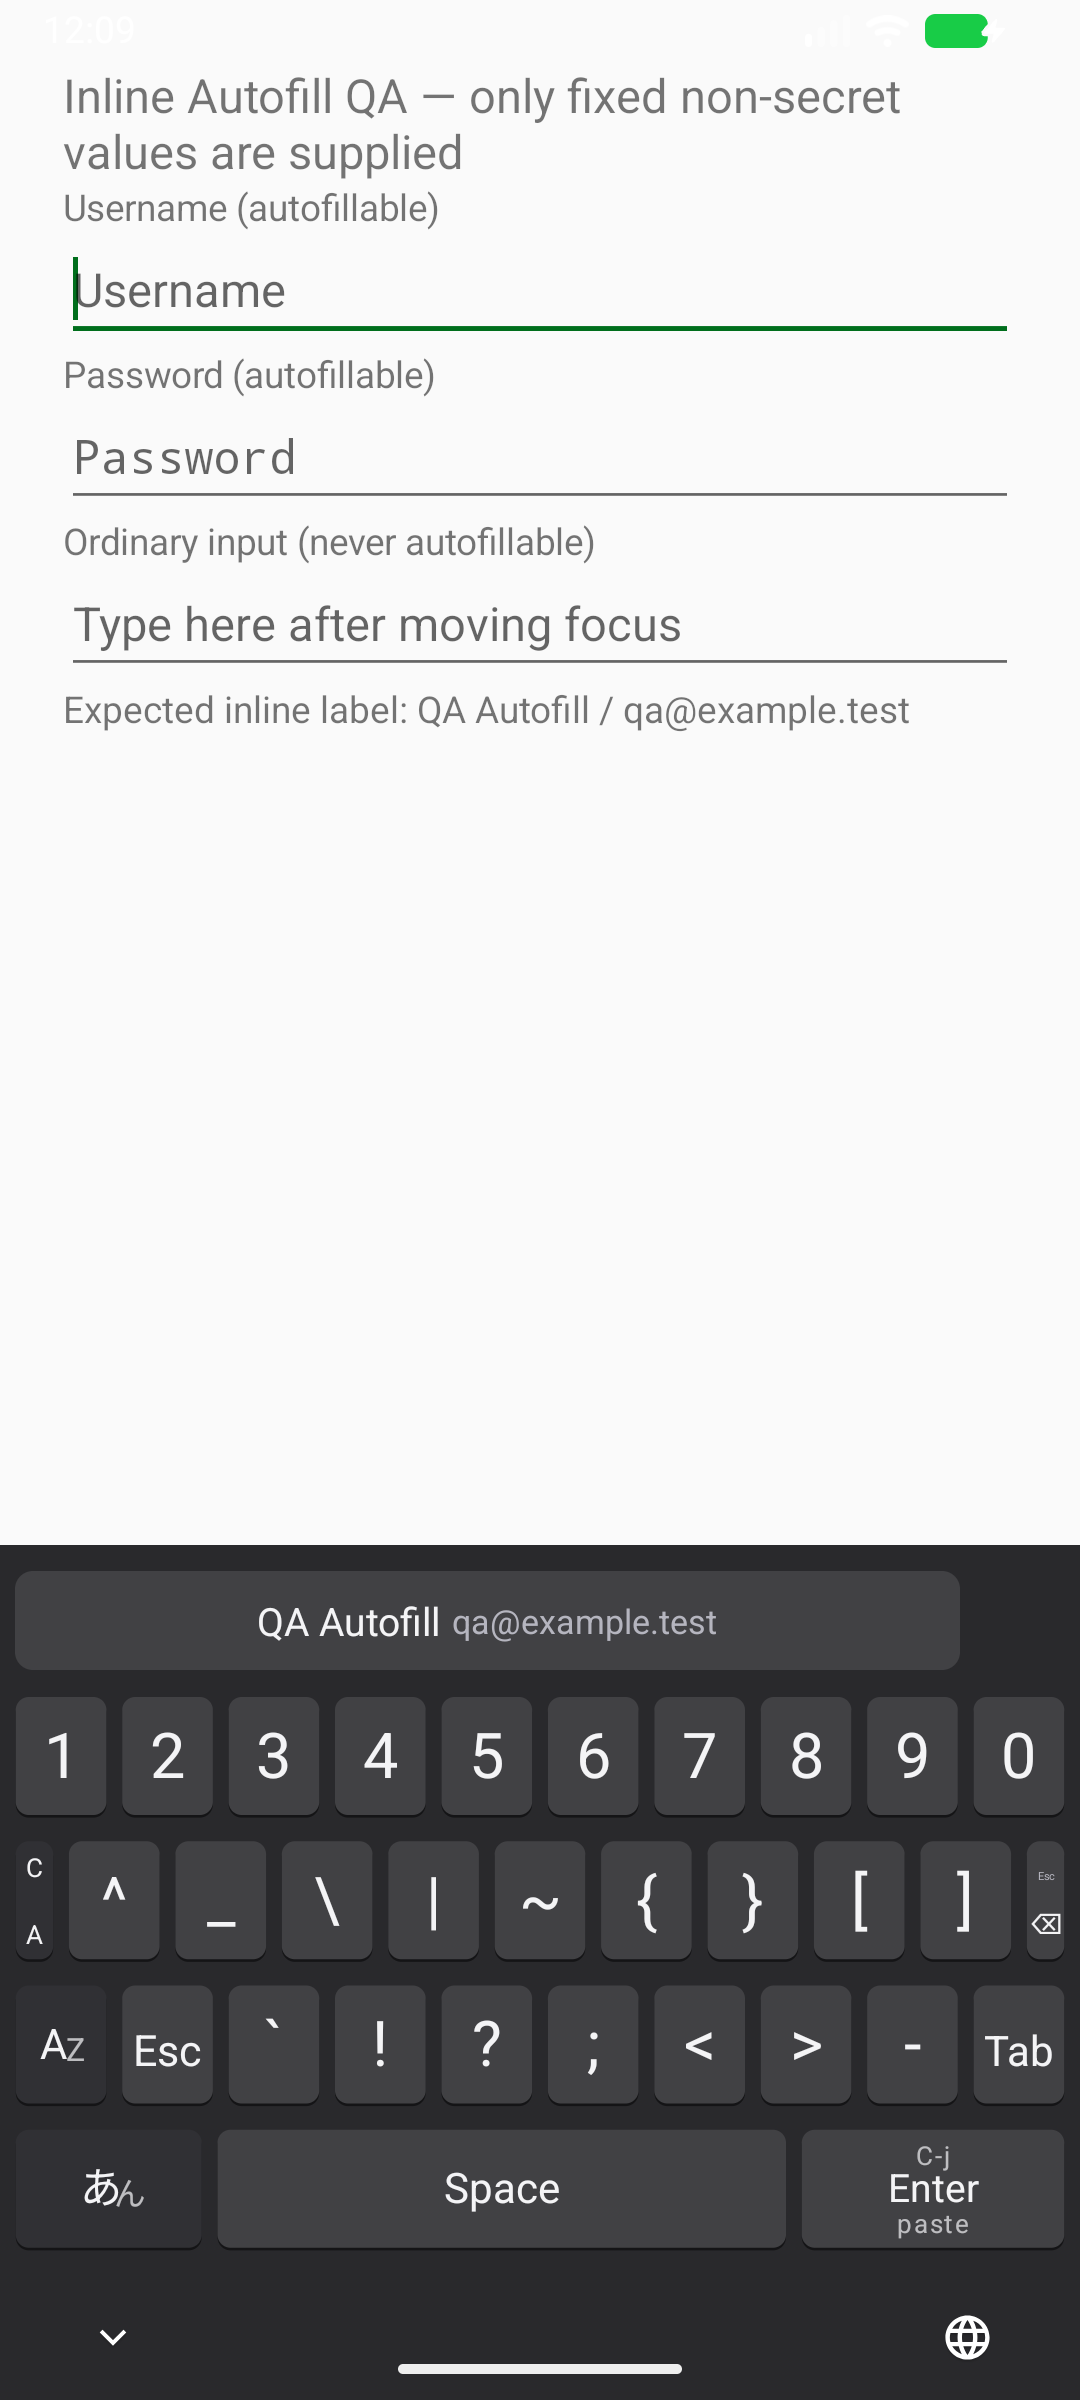
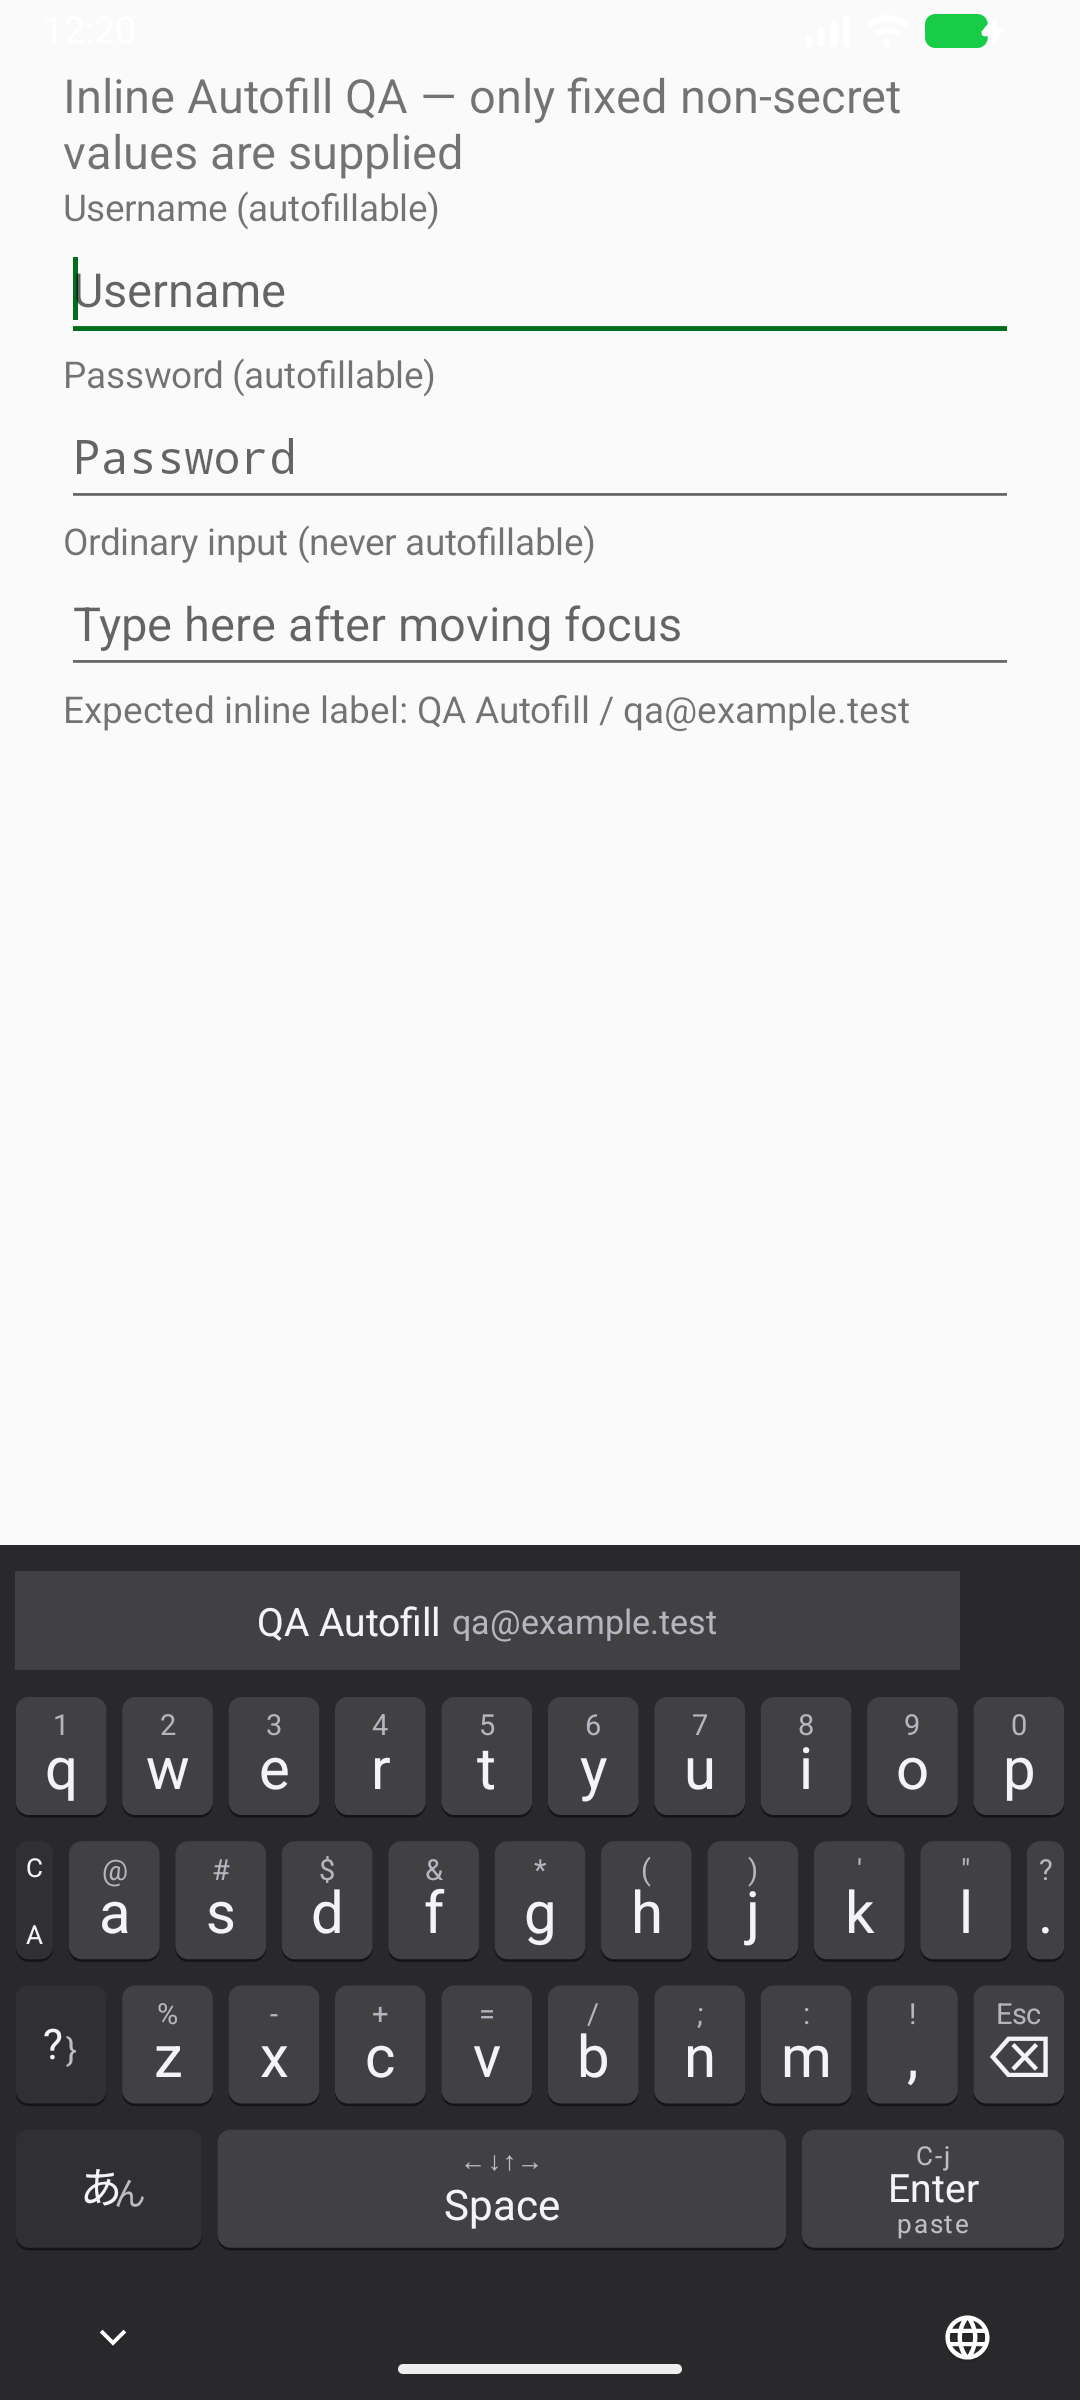
Record inline theme verification and review APK

diff --git a/progress.md b/progress.md
@@ -474,3 +474,5 @@
 [2026/10/27 11:58] 実Bitwarden試験で候補が欄下ポップアップに出てキーボードが閉じ、再タップ後もIME内候補は出ないと判明した。Bitwarden側の候補表示設定を確認中で、インライン動作は未確認のまま。
 [2026/10/27 12:05] Bitwardenをインライン表示へ変更後、実機のmd-kbd候補欄にBitwarden候補2件が出ることを利用者の画像で確認した。候補タップ後にIDとパスワードが埋まるかは未確認。
 [2026/10/27 12:10] インライン候補の白背景はAndroidX既定styleによるものと特定し、通常候補と同じ明暗別の色・角丸を指定した。QA自動入力サービスのエミュレータ画面でダーク411dp相当とライト840dp相当を確認した。実Bitwardenでの新配色と候補タップ後の入力は未確認。
+[2026/10/27 12:24] Bitwarden候補の白背景はダークIMEと不一致と確認。AndroidX v1の候補styleへ既存の明暗別候補色と文字色を指定し、固定値QA自動入力サービスのエミュレータ画面でダークは濃灰・ライトは白を確認した。最終SHA 8313d89のfast-checksと接続試験は通過。並列一式では既存の絵文字Robolectric試験が断続失敗したが、単独の全単体試験・lint・APKビルドは通過。実Bitwardenの新配色と候補選択後の入力は未確認。
+[2026/10/27 12:29] 暗色候補の修正版レビューAPKを24時間公開のFlyerプレビューへ入れ替えた。新APKは38,965,643バイト、SHA-256は4611213617df838878e9e00440563c49217267cecdb295d6b6acb9f23f399d4aで、分割ファイル2件のFlyer側hashと元ファイルのローカルhashを照合した。旧2ファイルは削除した。
